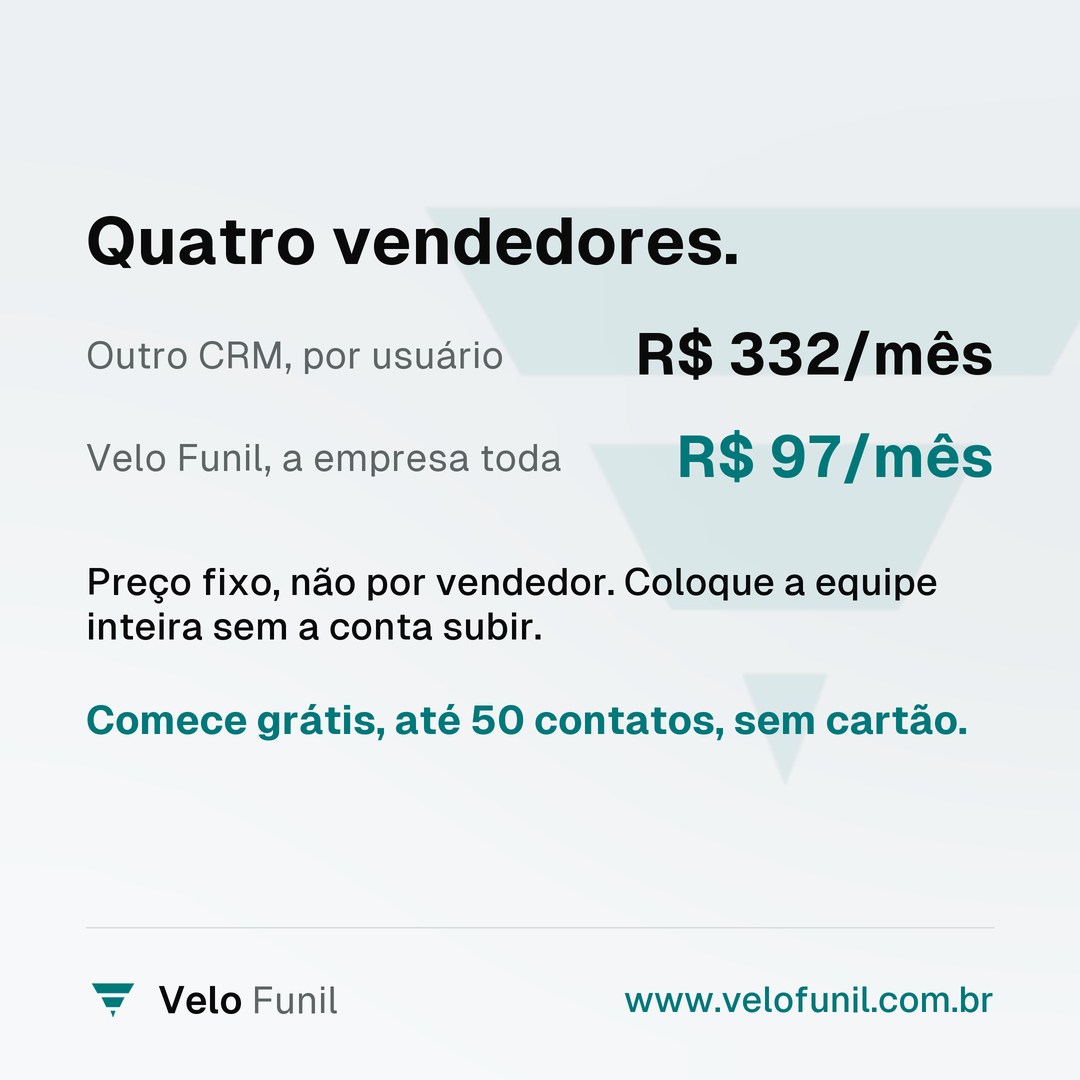
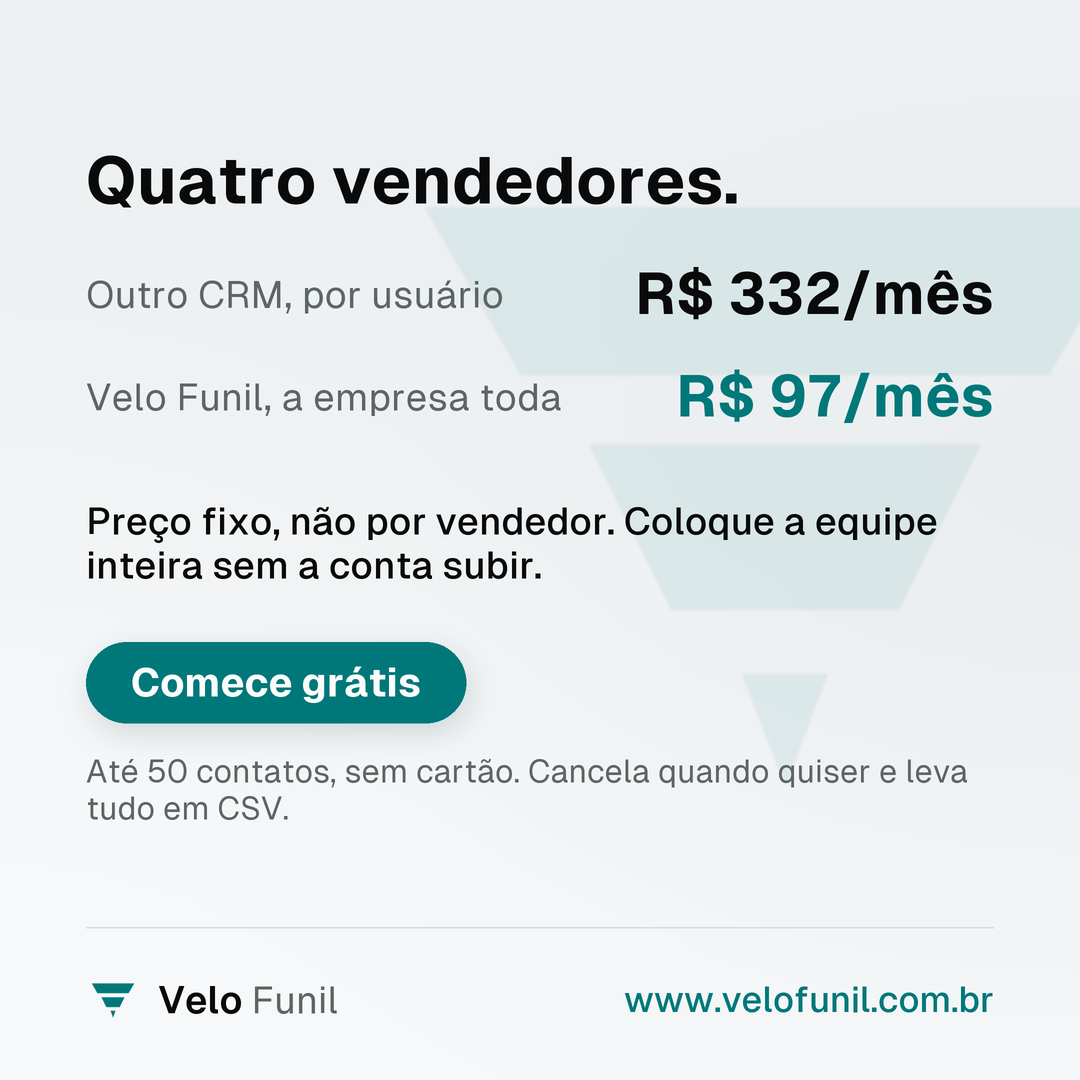
feat(prospeccao): o CTA virou BOTAO, e o link do www foi medido e recusado
Pedido do dono, olhando a peca: por o "comece" dentro de um icone, mais
profissional. E conferir o link.

## Por que isto NAO contraria a decisao de 31/08

Naquele dia a capsula do `pill` saiu por pedido do dono, com uma palavra so:
nao e profissional. O raciocinio ficou escrito la e continua valendo — capsula
com contorno e vocabulario de INTERFACE, onde a forma delimita algo clicavel
no meio de outros elementos, e num criativo o rotulo ja esta sozinho sobre
fundo vazio. A borda nao separava de nada: era forma sem funcao.

Aqui a forma TEM funcao. O retangulo comunica "isto e a acao", que e
informacao que nenhuma outra parte da peca carrega e que o olho le antes de
decodificar a palavra.

Solido e nao contornado: contorno e o `variant="outline"` do produto, que ali
significa acao SECUNDARIA, e este e o unico convite da peca. A sombra so
existe no tema claro, pela mesma regra que `globals.css` ja aplica ao cartao
— sombra sobre fundo quase preto nao aparece.

Duas palavras dentro do botao, condicao fora e abaixo em corpo menor. Rotulo
com virgula e tres informacoes vira frase dentro de um retangulo, e um
retangulo de 900px nao le como botao, le como faixa.

## O link: medido, e a correcao RECUSADA com numero

    www.velofunil.com.br                    200   316ms
    www.velofunil.com.br/cadastro           200   253ms
    velofunil.com.br/?utm_source=whatsapp   200   575ms   <- o da mensagem

O terceiro paga 259ms num redirecionamento para o www, e `abordagem.ts` monta
[…]

Changed region(s): [[0.0611, 0.1222, 0.9167, 0.7639]]

diff --git a/scripts/marketing/gerar-peca-prospeccao.py b/scripts/marketing/gerar-peca-prospeccao.py
@@ -43,7 +43,7 @@ import importlib.util
 import sys
 from pathlib import Path
 
-from PIL import Image, ImageDraw
+from PIL import Image, ImageDraw, ImageFilter
 
 # Mesmo mecanismo dos outros geradores: o modulo de Stories e a base, e as
 # funcoes dele leem as dimensoes como globais resolvidas em tempo de chamada.
@@ -129,6 +129,68 @@ def _salvar(img, nome):
     destino = SAIDA / nome
     img.resize((g.W_FINAL, g.H_FINAL), Image.LANCZOS).save(destino, quality=95)
     print(f"  {nome}  {g.W_FINAL}x{g.H_FINAL}  {destino.stat().st_size // 1024} KB")
+
+
+def botao(d, texto, y, img=None):
+    """
+    O CTA desenhado como BOTÃO, e não como mais uma linha de texto.
+
+    ## Isto parece contrariar a decisão de 31/08, e não contraria
+
+    Naquele dia a cápsula do `pill` foi removida por pedido do dono, com uma
+    palavra só: *não é profissional*. O raciocínio ficou escrito lá e continua
+    valendo — pílula com contorno é vocabulário de INTERFACE, onde a forma
+    existe para delimitar algo clicável no meio de outros elementos, e num
+    criativo o rótulo já está sozinho sobre fundo vazio. A borda não separava
+    de nada: era forma sem função.
+
+    **Aqui a forma TEM função.** O que este retângulo comunica é exatamente
+    "isto é a ação" — informação que nenhuma outra parte da peça carrega, e
+    que o olho lê antes de decodificar a palavra. É a diferença entre desenhar
+    um botão em volta de um rótulo (enfeite) e desenhar um botão em volta de
+    um convite (sinalização).
+
+    ## Sólido, não contornado
+
+    Contorno seria o `variant="outline"` do produto, que ali significa ação
+    SECUNDÁRIA. Este é o único convite da peça, então leva o preenchimento
+    cheio — o mesmo peso que o botão primário tem no produto de verdade.
+
+    A altura sai de `fnt.size`, não de um número fixo: trocar o corpo do texto
+    sem trocar a altura produziria ou um botão apertado ou um vão em volta da
+    palavra, e os dois leem como render torto.
+    """
+    fnt = g.fonte("Bold", 40)
+    pad_x = int(g.W * 0.042)
+    pad_y = int(fnt.size * 0.52)
+    larg_texto = d.textlength(texto, font=fnt)
+    larg = int(larg_texto) + pad_x * 2
+    alt = fnt.size + pad_y * 2
+    x0 = g.MARGEM_ESQ
+
+    # ## A sombra só existe no claro, e é a mesma regra do produto
+    #
+    # `globals.css` deu elevação ao cartão no modo claro e ANULOU a regra no
+    # escuro: sombra sobre fundo quase preto não aparece, e tentar compensar
+    # com opacidade produz uma mancha suja em volta do objeto. O botão segue a
+    # mesma escada de superfície em vez de inventar uma própria.
+    if img is not None and g._TEMA_CLARO:
+        mascara = Image.new("L", img.size, 0)
+        ImageDraw.Draw(mascara).rounded_rectangle(
+            [x0 + 4 * g.ESCALA, y + 10 * g.ESCALA,
+             x0 + larg + 4 * g.ESCALA, y + alt + 10 * g.ESCALA],
+            radius=alt // 2, fill=120,
+        )
+        mascara = mascara.filter(ImageFilter.GaussianBlur(14 * g.ESCALA))
+        img.paste(Image.new("RGB", img.size, (168, 184, 186)), (0, 0), mascara)
+
+    d.rounded_rectangle([x0, y, x0 + larg, y + alt], radius=alt // 2,
+                        fill=g.cor_destaque())
+    # Off-white e não branco puro: é o `BRANCO` da paleta, e o branco absoluto
+    # sobre teal vibra na borda das letras quando a peça é reamostrada para a
+    # miniatura do WhatsApp.
+    d.text((x0 + pad_x, y + pad_y - 3 * g.ESCALA), texto, font=fnt, fill=g.BRANCO)
+    return y + alt
 
 
 def _quadrado(claro=True):
@@ -259,7 +321,11 @@ def preco():
         ("Velo Funil, a empresa toda", f"R$ {g.PRO_PLAN_PRICE}/mês", True),
     ]
 
-    def corpo(d, y):
+    # `img_alvo` só existe no desenho de verdade. Na medição o bloco roda sobre
+    # um rascunho descartável, e pintar a sombra do botão nele seria desenhar
+    # numa imagem que ninguém salva — inofensivo, mas o `None` deixa explícito
+    # que a passada seca só mede.
+    def corpo(d, y, img_alvo=None):
         y = g.escrever_esq(
             d,
             f"{EQUIPE_POR_EXTENSO} vendedores.",
@@ -296,15 +362,22 @@ def preco():
         # Instagram anunciou "grátis até 300 contatos" por meses depois de o
         # teto virar 50, e é esse defeito que a leitura de `lib/plans.ts`
         # existe para impedir.
+        #
+        # O botão leva DUAS palavras e a condição fica fora dele, abaixo, em
+        # corpo menor. Rótulo de botão com vírgula e três informações deixa de
+        # ser rótulo e vira frase dentro de um retângulo — e um retângulo de
+        # 900px de largura não lê como botão, lê como faixa.
+        y = botao(d, "Comece grátis", y + int(g.H * 0.05), img=img_alvo)
         return g.escrever_esq(
             d,
-            f"Comece grátis, até {g.FREE_LEAD_LIMIT} contatos, sem cartão.",
-            g.fonte("Bold", 40),
-            y + int(g.H * 0.045),
-            g.cor_destaque(),
+            f"Até {g.FREE_LEAD_LIMIT} contatos, sem cartão. "
+            "Cancela quando quiser e leva tudo em CSV.",
+            g.fonte("Regular", 32),
+            y + int(g.H * 0.028),
+            g.cor_corpo(),
         )
 
-    corpo(draw, g.centrar(topo, base, g.medir(corpo)))
+    corpo(draw, g.centrar(topo, base, g.medir(corpo)), img_alvo=img)
     g.assinar_discreto(img, draw)
     _salvar(img, "3-preco.png")
 
